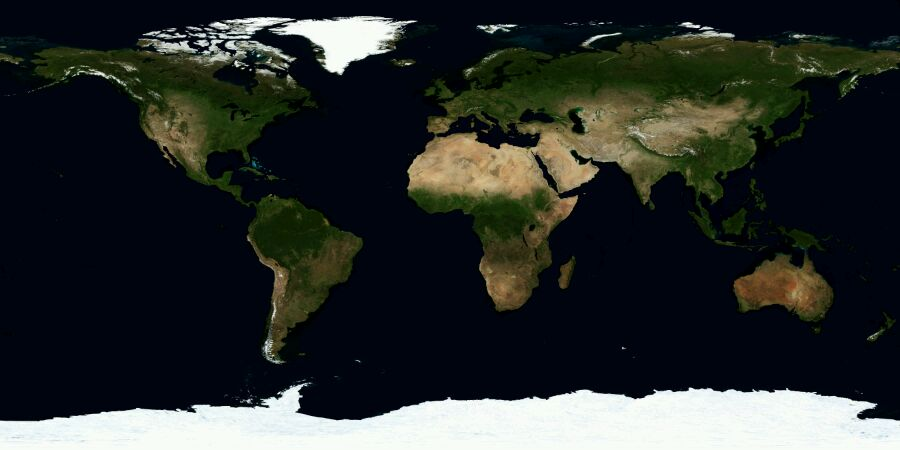
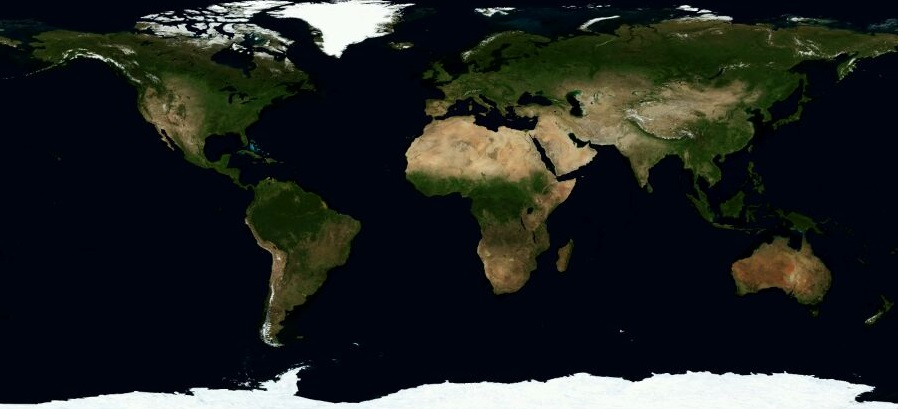
修改SphereMap贴图计算方式

diff --git a/Engine_3D/flatform/Drawable.cpp b/Engine_3D/flatform/Drawable.cpp
@@ -94,6 +94,17 @@ VOID Initialize()
 	man.addLight(5, 100, 220);
 	//man.addLight(-1000, 100, 100);
 
+	//load resource
+	INT t0 = tman.addTexture(480, 480, 10);
+	INT t1 = tman.addTexture("1.jpg");
+	INT t2 = tman.addTexture("2.jpg");
+	INT t3 = tman.addTexture("3.jpg");
+	INT t4 = tman.addTexture(64, 64, 8);
+	INT t5 = tman.addTexture(64, 64, 2);
+	INT t6 = tman.addTexture("6.jpg");
+	INT t7 = tman.addTexture("7.jpg");
+	INT t8 = tman.addTexture("8.jpg");
+
 	// generate teapot
 	Object3D& obj = man.addObject().renderAABB().setColor(RED).setLineColor(RED).setVertexType(1);
 	int normal = -1;
@@ -108,7 +119,7 @@ VOID Initialize()
 		triangle_count++;
 		obj.setIndice(g_teapotIndices[i], g_teapotIndices[i + 1], g_teapotIndices[i + 2]);
 	}
-	obj.move(50, -30, 0).scale(2, 2, 2).rotate(-90, 30, 0);
+	obj.move(50, -30, 0).scale(2, 2, 2).rotate(-90, 30, 0);// .setTexture(tman, t7, 1);
 
 	//for (int i = 0; i < 1; i++) {
 	//	for (int j = 0; j < 1; j++) {
@@ -125,16 +136,6 @@ VOID Initialize()
 	//man.addObject().addVert(-10, 0, -10).addVert(10, 0, -10).addVert(-10, 0, 10).addVert(10, 0, 10, -1)
 	//	.rotate(-90, -90, -90).move(-100, -20, 0).setColor(LIGHTGRAY).setLineColor(RED);
 
-	//load resource
-	INT t0 = tman.addTexture(480, 480, 10);
-	INT t1 = tman.addTexture("1.jpg");
-	INT t2 = tman.addTexture("2.jpg");
-	INT t3 = tman.addTexture("3.jpg");
-	INT t4 = tman.addTexture(64, 64, 8);
-	INT t5 = tman.addTexture(64, 64, 2);
-	INT t6 = tman.addTexture("6.jpg");
-	INT t7 = tman.addTexture("7.jpg");
-	INT t8 = tman.addTexture("8.jpg");
 
 	int count = 2;
 	int c = 30;
@@ -146,7 +147,7 @@ VOID Initialize()
 	//	.addVert(10, 10, -10).addVert(10, -10, 10, -1).addVert(10, -10, -10).addVert(-10, -10, 10, -1).addVert(-10, -10, -10)
 	//	.addVert(-10, 10, 10, -1).addVert(-10, 10, -10).addVert(10, 10, -10, -1).addVert(-10, -10, -10).addVert(10, -10, -10, -1)
 	//	.scale(5, 5, 5).move(100, 10, 50).setColor(RED).setLineColor(BLUE).setTexture(tman, t2);
-	c = 50;
+	c = 30;
 	p_1 = PI / ((EFTYPE)c); p_2 = 2 * PI / ((EFTYPE)c);
 	count = 1;
 	for (k = 0; k < count; k++) {
@@ -165,6 +166,8 @@ VOID Initialize()
 			}
 			obj.addVert(x_1, 0, -r_1).addVert(x_2, 0, -r_2, -1).setCenter(0, 0, 0).scale(10, 10, 10).move(x, y, z).rotate(0, 0, 0)
 				.setColor(GREEN).setLineColor(RED).setTexture(tman, t7, 1);
+
+			cur_op = &obj;
 		}
 	}
 
@@ -284,7 +287,7 @@ VOID onScroll(FLOAT delta) {
 		else if (move_trans > 0) {
 
 			if (delta > 0) {
-				Obj3D * obj = man.tras.link;
+				Obj3D * obj = man.objs.link;
 				if (obj) {
 					do {
 
@@ -292,11 +295,11 @@ VOID onScroll(FLOAT delta) {
 
 
 						obj = man.objs.next(obj);
-					} while (obj && obj != man.tras.link);
+					} while (obj && obj != man.objs.link);
 				}
 			}
 			else {
-				Obj3D * obj = man.tras.link;
+				Obj3D * obj = man.objs.link;
 				if (obj) {
 					do {
 
@@ -304,7 +307,7 @@ VOID onScroll(FLOAT delta) {
 
 
 						obj = man.objs.next(obj);
-					} while (obj && obj != man.tras.link);
+					} while (obj && obj != man.objs.link);
 				}
 			}
 		}
@@ -509,22 +512,26 @@ VOID onKeyDown(WPARAM wParam)
 	//	break;
 	case VK_LEFT:
 		if (cur_op) {
-			cur_op->setUV(cur_op->u + 1, cur_op->v);
+			//cur_op->setUV(cur_op->u + 1, cur_op->v);
+			cur_op->move(1, 0, 0);
 		}
 		break;
 	case VK_RIGHT:
 		if (cur_op) {
-			cur_op->setUV(cur_op->u - 1, cur_op->v);
+			//cur_op->setUV(cur_op->u - 1, cur_op->v);
+			cur_op->move(-1, 0, 0);
 		}
 		break;
 	case VK_UP:
 		if (cur_op) {
-			cur_op->setUV(cur_op->u, cur_op->v + 1);
+			//cur_op->setUV(cur_op->u, cur_op->v + 1);
+			cur_op->move(0, 1, 0);
 		}
 		break;
 	case VK_DOWN:
 		if (cur_op) {
-			cur_op->setUV(cur_op->u, cur_op->v - 1);
+			//cur_op->setUV(cur_op->u, cur_op->v - 1);
+			cur_op->move(0, -1, 0);
 		}
 		break;
 	case 'Y':

diff --git a/Engine_3D/flatform/Device.h b/Engine_3D/flatform/Device.h
@@ -592,9 +592,10 @@ struct Device {
 														//sphere map
 														// reflection vector
 														// R = I - 2 ( I * N ) N
-														n2.set(n0);// .normalize();
-														n3.set(v->n);// .normalize();
-														n3 * (n2 ^ n3) * 2;
+														n2.set(n1);
+														n3.set(n1)*obj->M_1;
+														EFTYPE cross = n2 ^ n3;
+														n3 * cross * 2;
 														n2 - n3;
 														// transition vector
 														// m = r + cam(0, 0, 1)
@@ -606,7 +607,12 @@ struct Device {
 														n2.y = n2.y * 0.5 + 0.5;
 														//n2.z = n2.z * 0.5 + 0.5;
 
-														*__image = obj->getTexture(n2.x, n2.y);
+														EFTYPE dx = 0;
+														if (cross < 0) {
+															dx = 0.5;
+														}
+
+														*__image = obj->getTexture(n2.x + dx, n2.y );
 													}
 
 													//calculate sumption of light factors

diff --git a/Engine_3D/math3d/Texture.h b/Engine_3D/math3d/Texture.h
@@ -43,7 +43,7 @@ public:
 			{
 				index = x + y * width;
 				index_r = index_t -  index;
-				texture[index] = buffer[index_r];
+				texture[index] = buffer[index];
 			}
 		}
 	}
